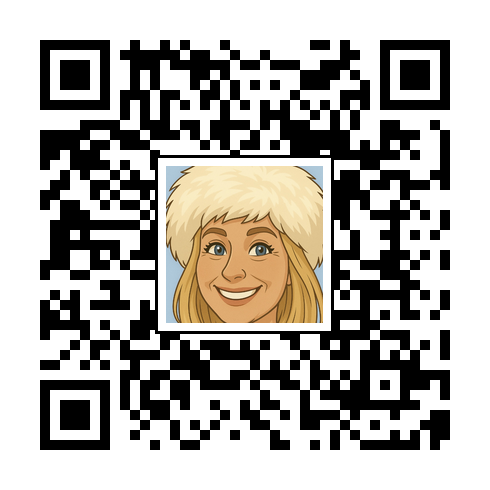
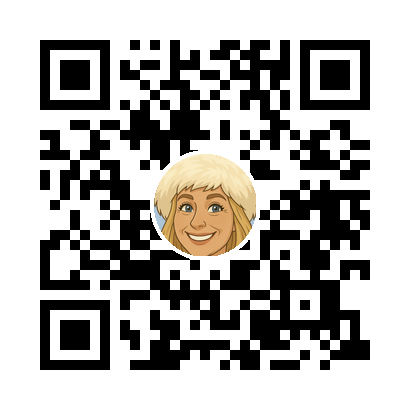
Add dynamic QR redirect for Carrie

diff --git a/server.js b/server.js
@@ -1,8 +1,63 @@
 const express = require('express');
+const fs = require('fs');
 const path = require('path');
 const app = express();
 const rootDir = path.join(__dirname, 'public');
 app.use(express.static(rootDir));
+
+const redirectsPath = path.join(__dirname, 'redirects.json');
+const normalizeSlug = (value = '') => {
+  const lower = value.trim().toLowerCase();
+  return lower.endsWith('.') ? lower.slice(0, -1) : lower;
+};
+
+let redirects = Object.create(null);
+const loadRedirects = () => {
+  try {
+    const raw = fs.readFileSync(redirectsPath, 'utf-8');
+    const parsed = JSON.parse(raw);
+    if (parsed && typeof parsed === 'object') {
+      redirects = Object.create(null);
+      for (const [key, value] of Object.entries(parsed)) {
+        if (typeof value !== 'string') continue;
+        redirects[normalizeSlug(key)] = value;
+      }
+      console.log(`[redirects] Loaded ${Object.keys(redirects).length} redirect(s).`);
+    } else {
+      redirects = Object.create(null);
+      console.warn(`[redirects] ${redirectsPath} did not contain an object. No redirects loaded.`);
+    }
+  } catch (err) {
+    if (err.code === 'ENOENT') {
+      redirects = Object.create(null);
+      console.warn(`[redirects] No redirect file found at ${redirectsPath}.`);
+    } else {
+      console.error(`[redirects] Failed to load ${redirectsPath}:`, err);
+    }
+  }
+};
+
+loadRedirects();
+
+try {
+  fs.watchFile(redirectsPath, { interval: 5000 }, () => {
+    console.log('[redirects] Change detected, reloading redirects...');
+    loadRedirects();
+  });
+} catch (err) {
+  console.error('[redirects] Failed to watch redirect file:', err);
+}
+
+app.get('/r/:slug', (req, res, next) => {
+  const slug = normalizeSlug(req.params.slug);
+  const target = redirects[slug];
+  if (!target) return next();
+  if (/^https?:\/\//i.test(target)) {
+    return res.redirect(302, target);
+  }
+  const destination = target.startsWith('/') ? target : `/${target}`;
+  return res.redirect(302, destination);
+});
 
 // Force download route for assets under /public
 app.get('/dl/*', (req, res) => {

diff --git a/README.md b/README.md
@@ -1,2 +1,14 @@
 # pinataro
 Personal site and portfolio
+
+## Dynamic redirect links (QR ready)
+
+The Express server now supports dynamic redirects that are useful when pairing a QR code with a stable slug. Edit `redirects.json` at the project root to control the destination for each slug. Example:
+
+```json
+{
+  "carrie": "/QR-Contacts/Carrie/Carrie.html"
+}
+```
+
+With the sample configuration above a request to `/r/carrie` (or `/r/CARRIE.`) issues a 302 redirect to `/QR-Contacts/Carrie/Carrie.html`. Update the value whenever you need the QR code to point somewhere else—no code changes required. Relative paths will stay on the same domain; supply a full `https://` URL to redirect externally.
